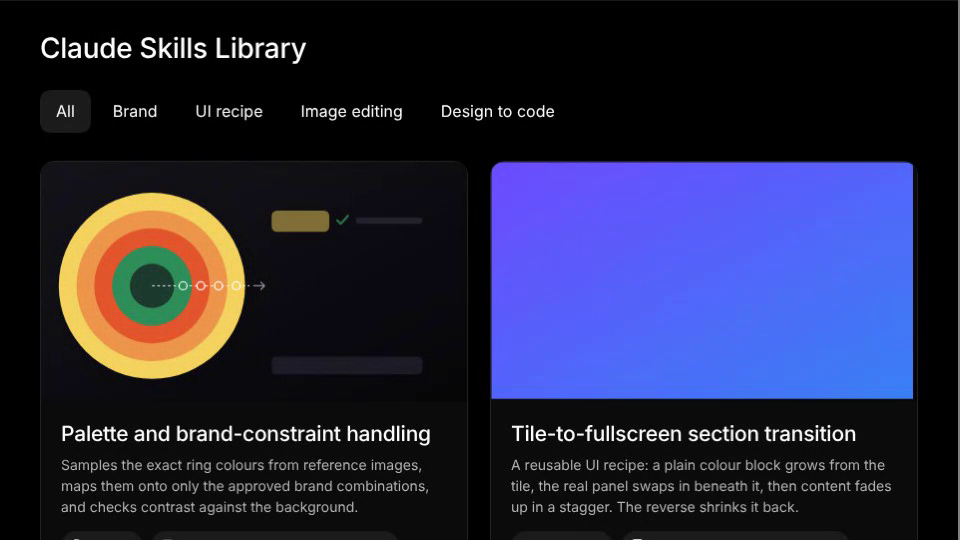
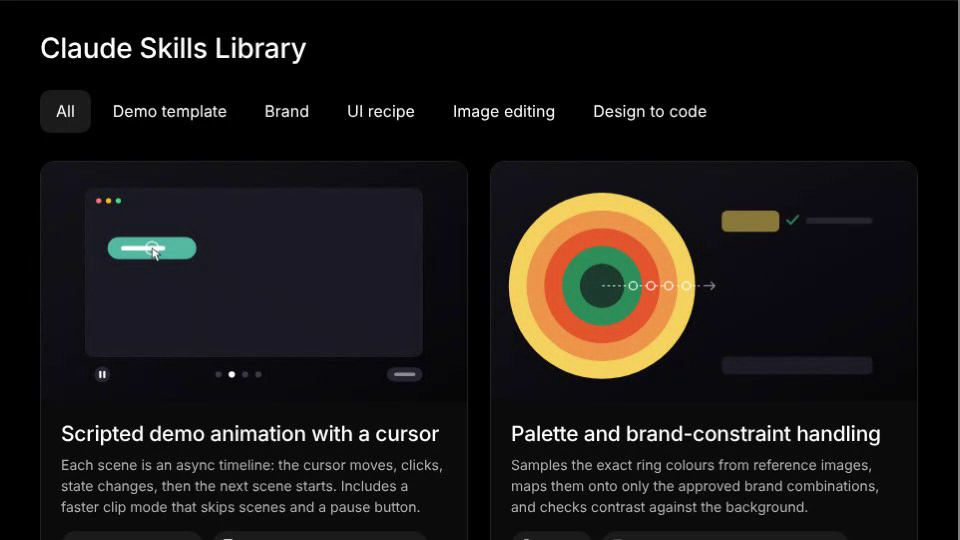
Skills Library: add scripted cursor demo skill
Claude-Session: https://claude.ai/code/session_01AHeBdzfwQsZW7SD9XQB6B1

diff --git a/skills-library/index.html b/skills-library/index.html
@@ -57,6 +57,14 @@ var ICON={
 };
 var SKILLS=[
   {
+    title:'Scripted demo animation with a cursor',
+    desc:'Each scene is an async timeline: the cursor moves, clicks, state changes, then the next scene starts. Includes a faster clip mode that skips scenes and a pause button.',
+    category:'Demo template', cIcon:'motion',
+    use:'Flow-style product demos', uIcon:'mockup',
+    art:'art/scripted-cursor-demo.svg',
+    alt:'A cursor glides to a button, clicks, and cards appear as scene dots advance, with a pause button and clip-speed chip below'
+  },
+  {
     title:'Palette and brand-constraint handling',
     desc:'Samples the exact ring colours from reference images, maps them onto only the approved brand combinations, and checks contrast against the background.',
     category:'Brand', cIcon:'design',
